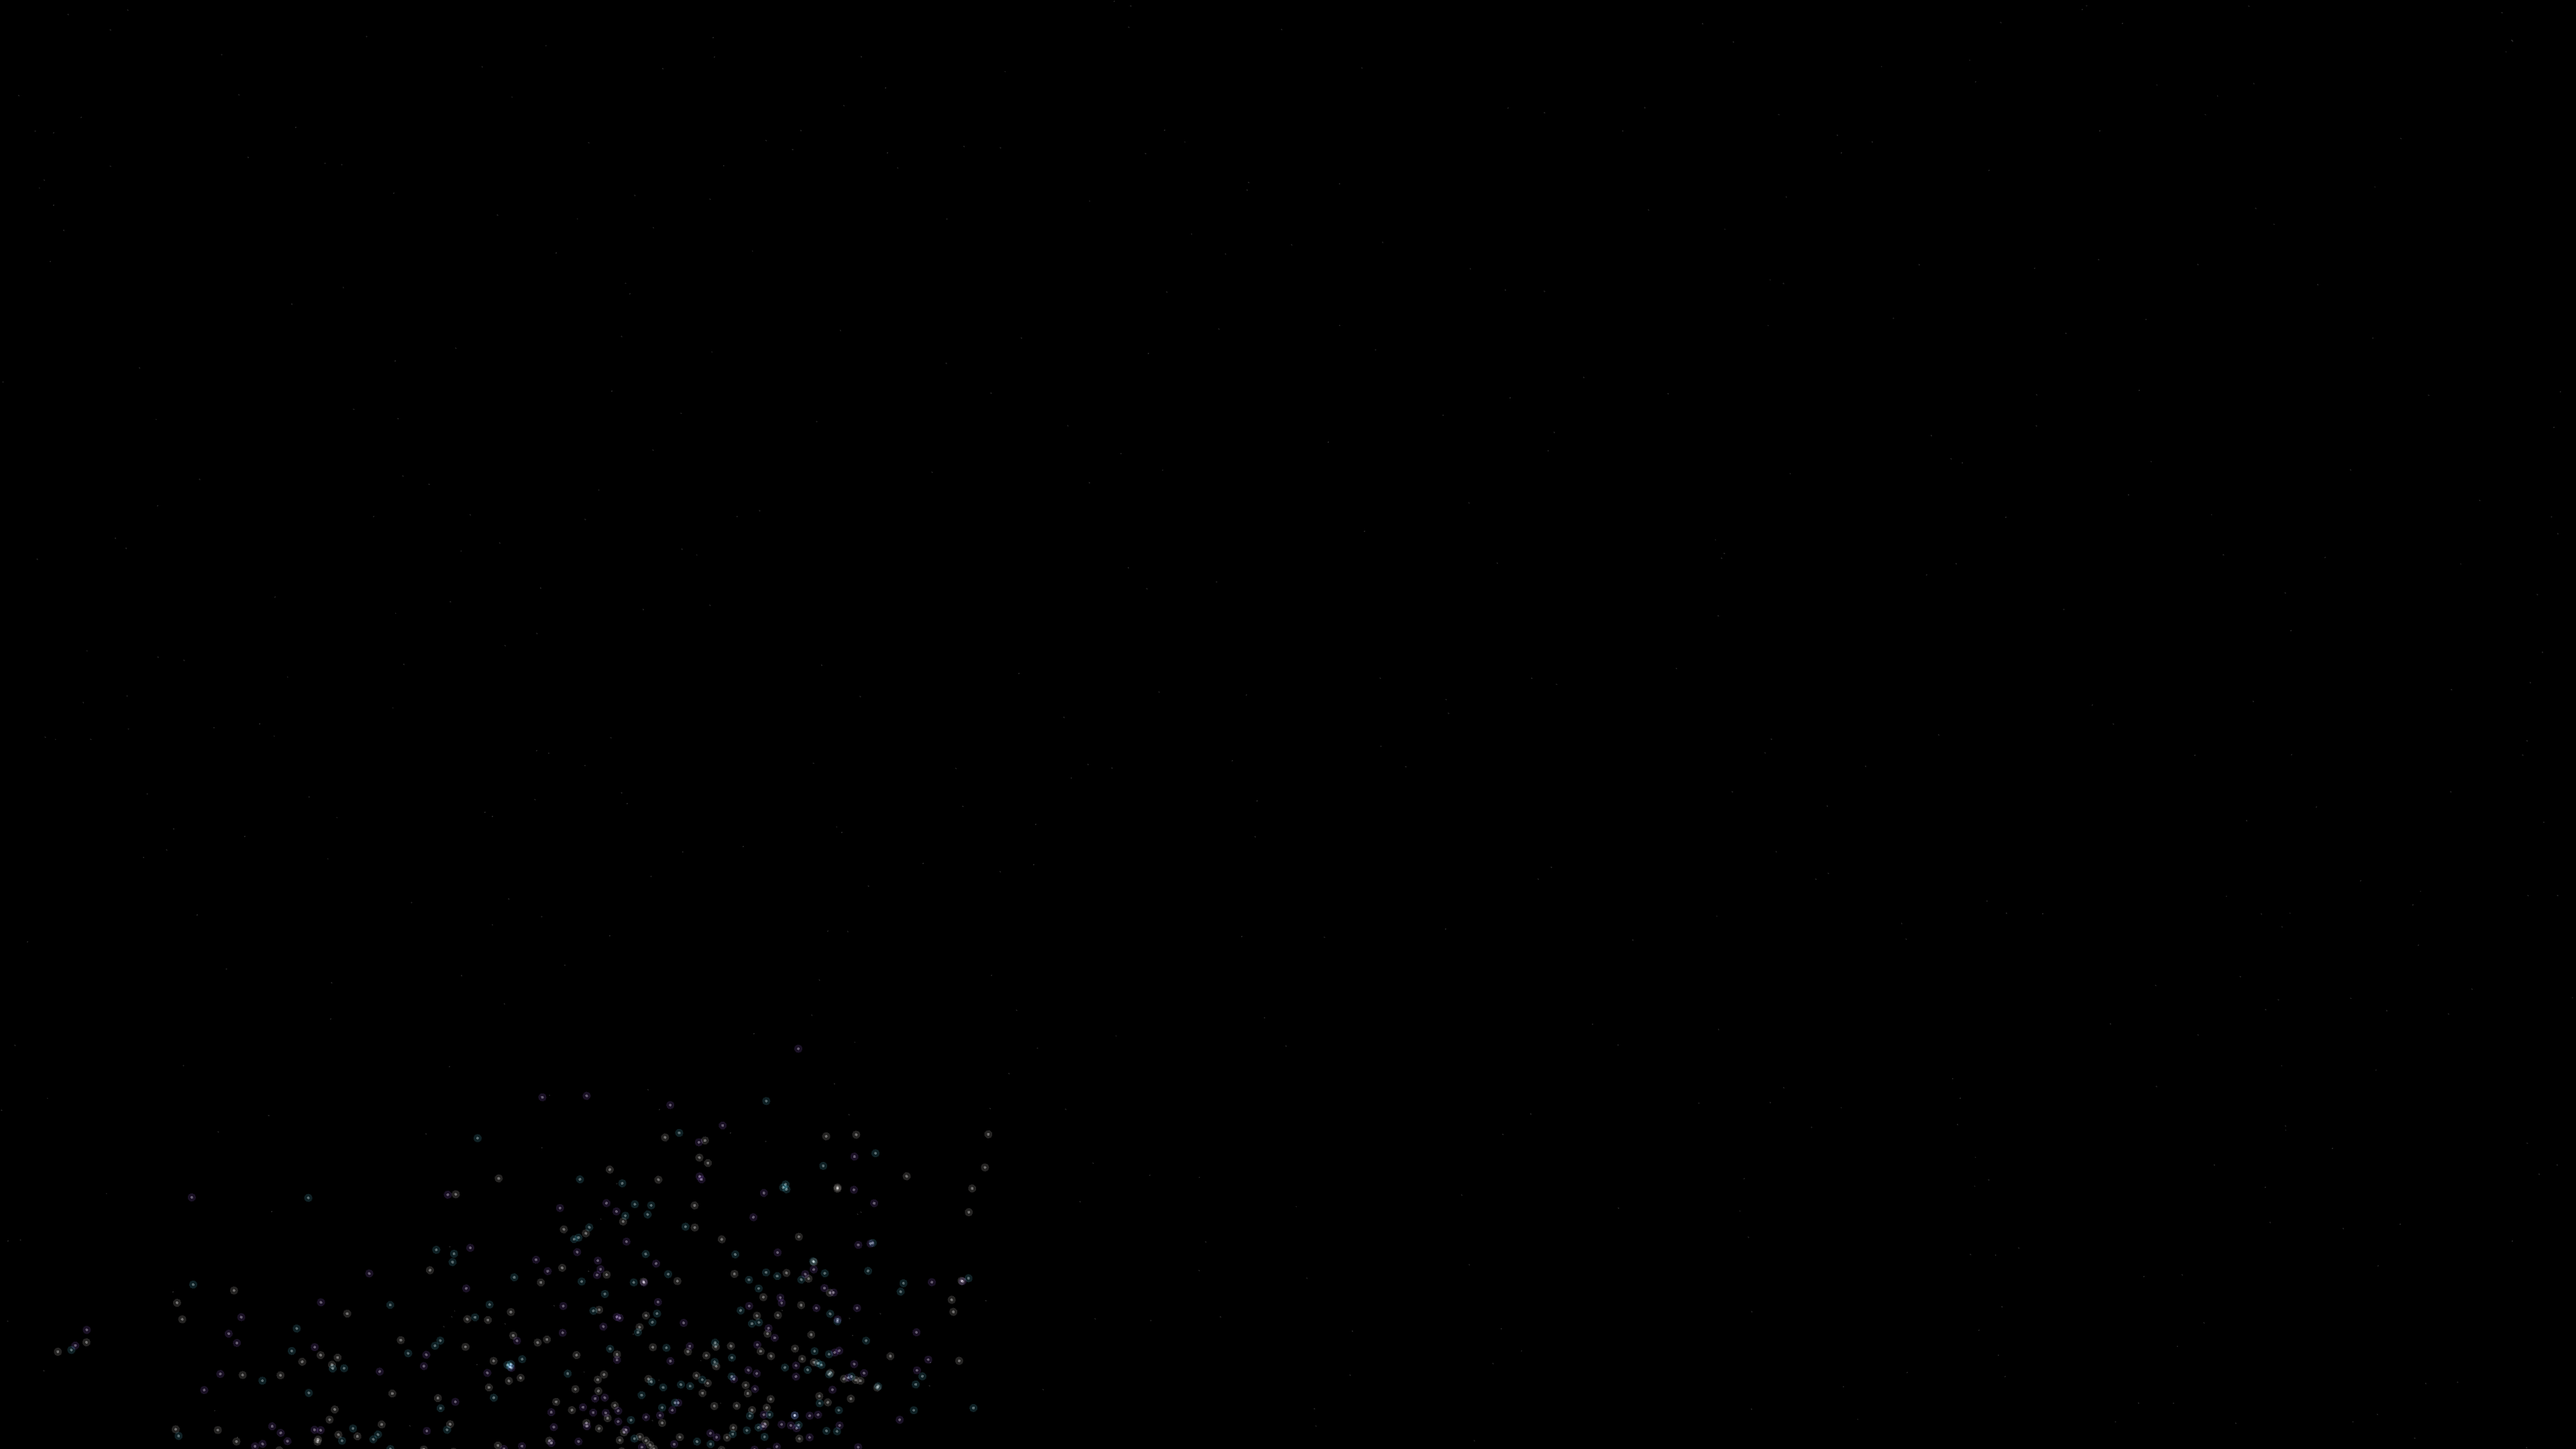
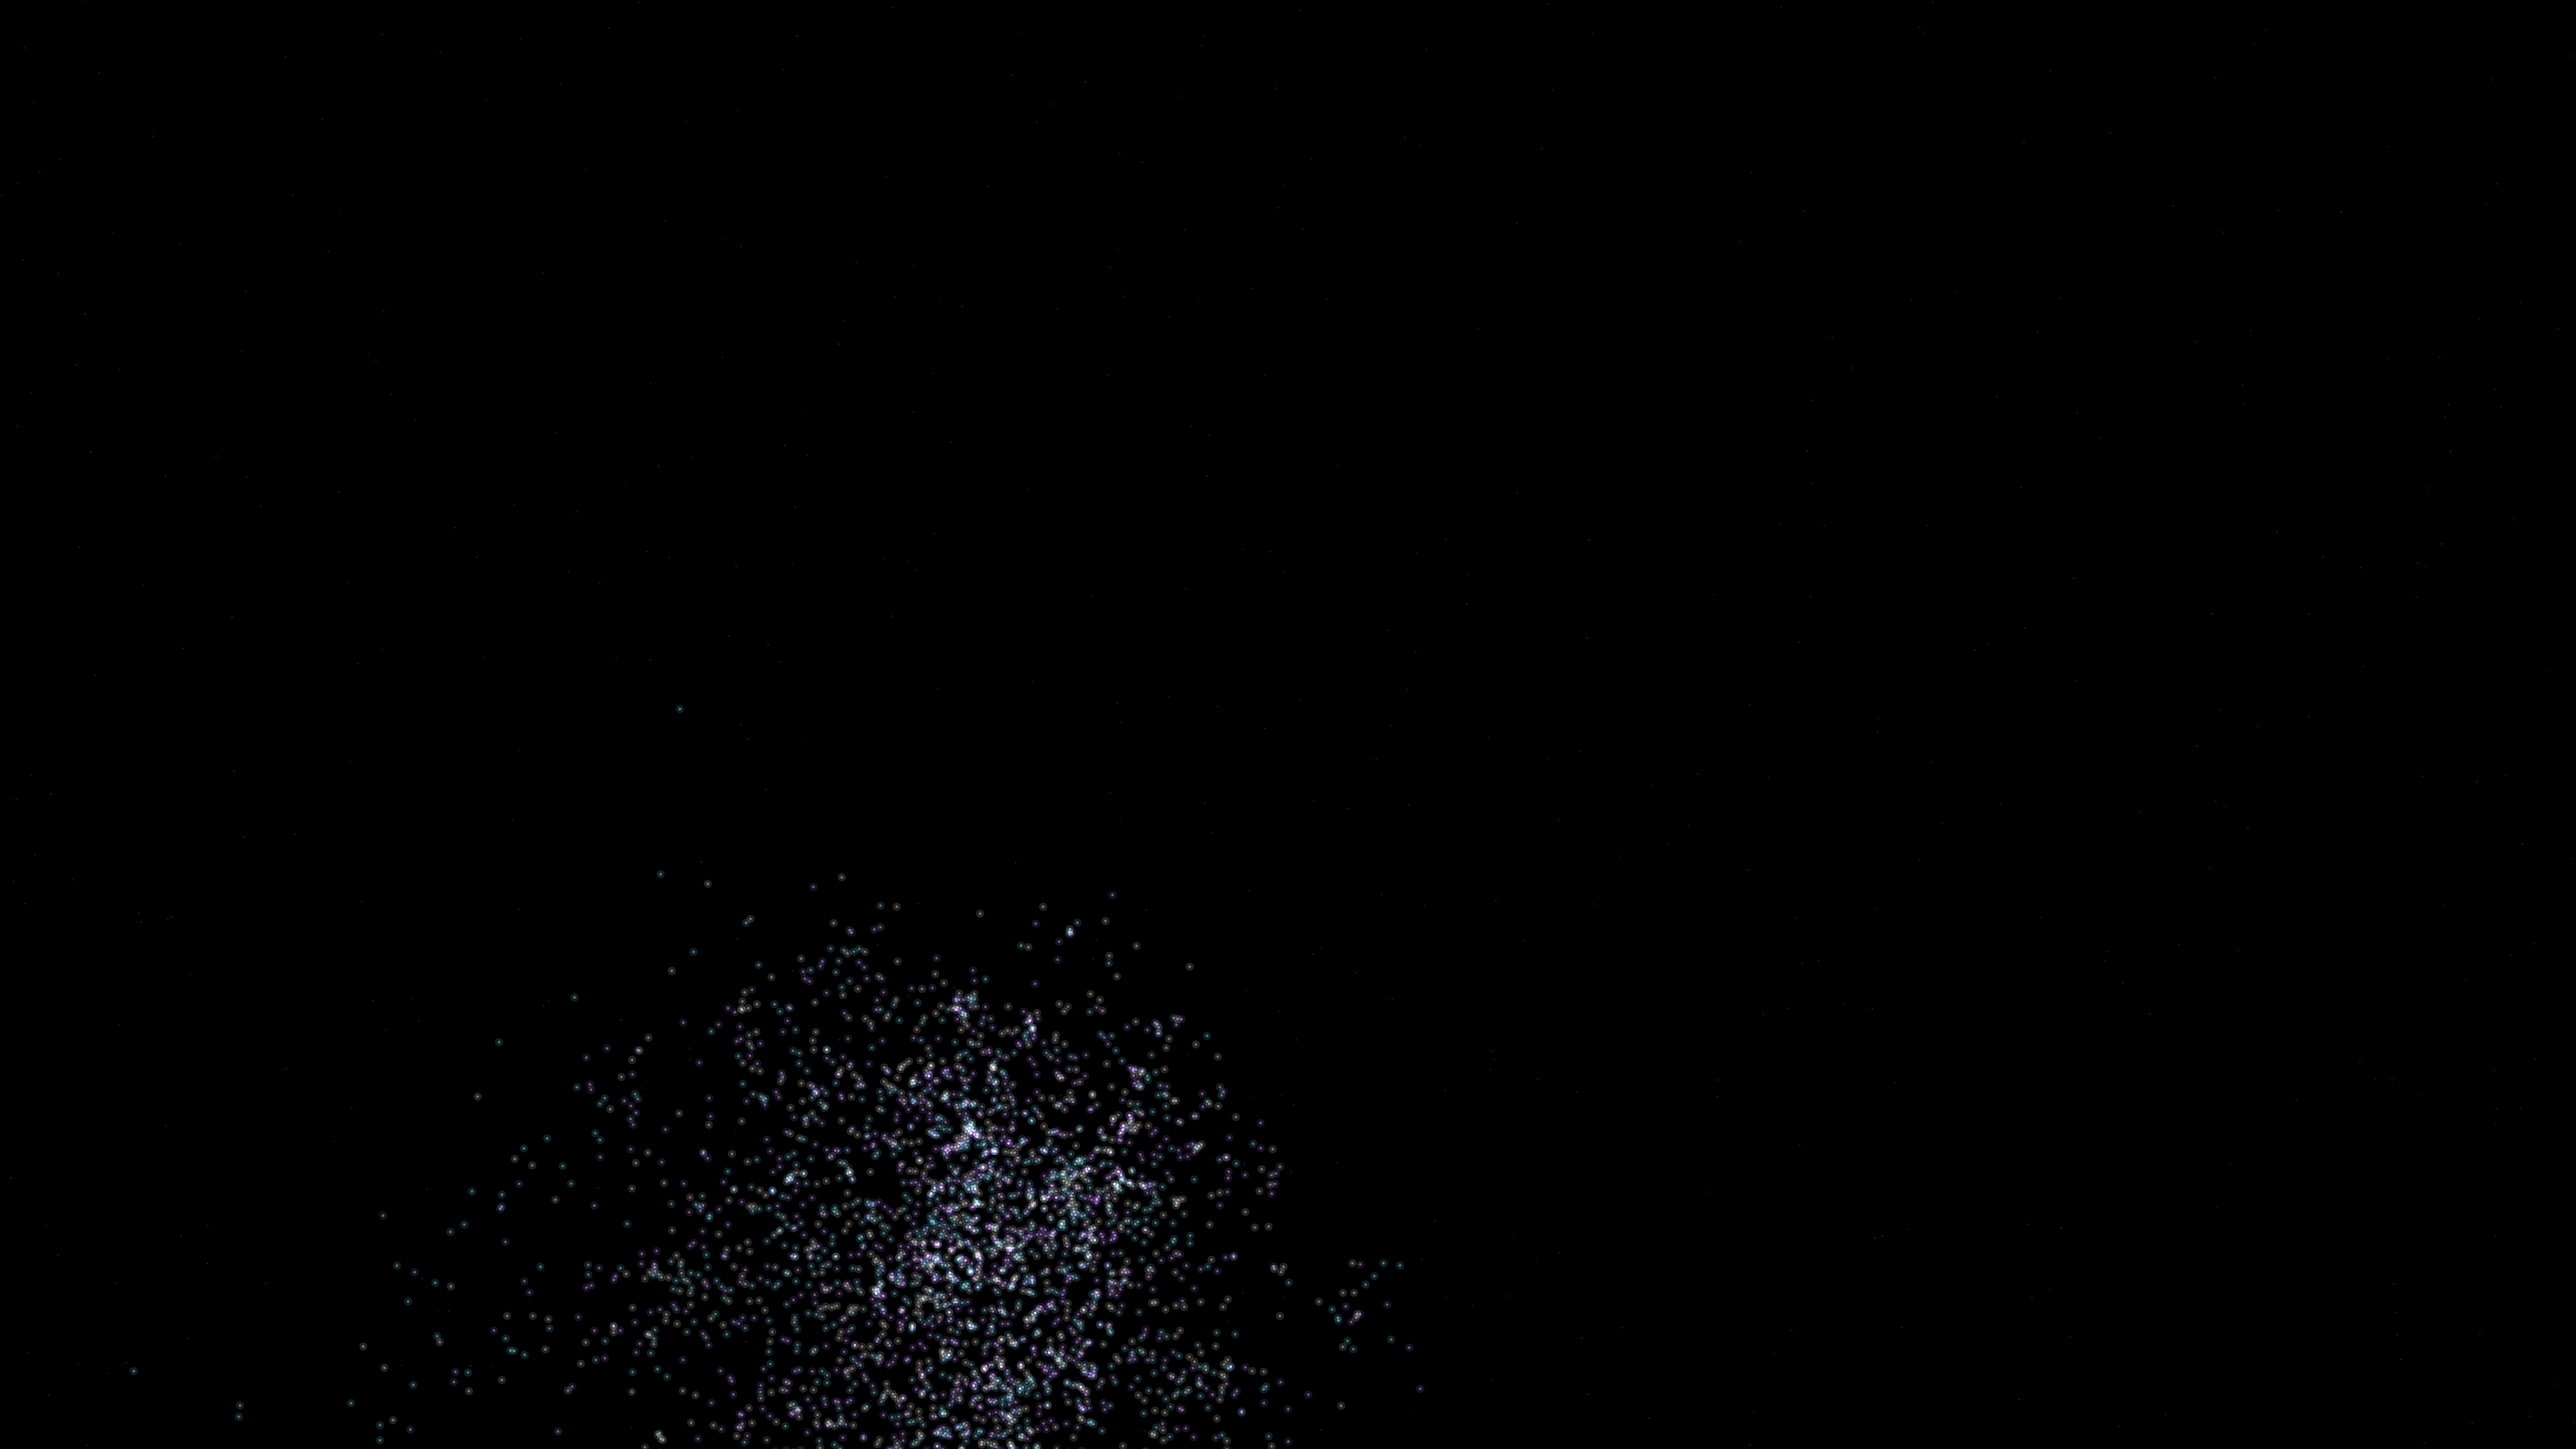
feat: upgrade cosmic_ray_cascade_resonance to 4K resolution and render output

diff --git a/sketch/cosmic_ray_cascade_resonance/main.py b/sketch/cosmic_ray_cascade_resonance/main.py
@@ -18,7 +18,8 @@ DURATION_SEC = 10
 FPS = 60
 TOTAL_FRAMES = DURATION_SEC * FPS
 PREVIEW_FILENAME = f"{WORK_NAME}_p1.png"
-PREVIEW_SIZE, OUTPUT_SIZE, SIZE = get_sizes()
+PREVIEW_SIZE, OUTPUT_SIZE, _ = get_sizes()
+SIZE = OUTPUT_SIZE  # Force 4K resolution (3840x2160)
 
 # Simulation Parameters
 PARTICLE_COUNT = 50000
@@ -117,33 +118,36 @@ class CascadeSystem:
             p_chunk = pts[m]
             alpha = np.mean(life_active[m]) * 255
             
+            # Subtle glow (adjusted stroke weights for 4K)
             py5.stroke(c[0], c[1], c[2], alpha * 0.5)
-            py5.stroke_weight(6)
+            py5.stroke_weight(12)
             py5.points(p_chunk)
             
             py5.stroke(255, 255, 255, alpha)
-            py5.stroke_weight(2)
+            py5.stroke_weight(4.0)
             py5.points(p_chunk)
 
 sys_obj = None
 stars_pos = None
 
+import shutil
+
 def setup():
     global sys_obj, stars_pos
     py5.size(*SIZE, py5.P2D)
+    py5.pixel_density(1)  # Capping at 1x density prevents Retina-doubling lag on 4K renders
     py5.background(0)
     py5.blend_mode(py5.ADD)
     sys_obj = CascadeSystem(py5.width, py5.height)
     stars_pos = np.random.uniform(0, [py5.width, py5.height], (500, 2)).astype(np.float32)
     if FRAMES_DIR.exists():
-        import shutil
         shutil.rmtree(FRAMES_DIR)
     FRAMES_DIR.mkdir(exist_ok=True)
 
 def draw():
     py5.background(0)
     py5.stroke(120, 80)
-    py5.stroke_weight(1)
+    py5.stroke_weight(2)  # Balanced for 4K
     py5.points(stars_pos)
 
     ry = py5.frame_count * 0.005
@@ -153,13 +157,29 @@ def draw():
     sys_obj.draw(ry, rz)
 
     py5.save_frame(str(FRAMES_DIR / "frame-####.png"))
+    
+    # Progress logs to prevent command timeouts
+    if py5.frame_count % 60 == 0:
+        print(f"[Render Progress] Frame {py5.frame_count}/{TOTAL_FRAMES} ({py5.frame_count/TOTAL_FRAMES*100:.1f}%)")
+
     if py5.frame_count >= TOTAL_FRAMES:
         py5.exit_sketch()
+        
+        print(f"[Render FFmpeg] Compiling {TOTAL_FRAMES} frames into 4K video...")
         subprocess.run(["ffmpeg", "-y", "-r", str(FPS), "-i", str(FRAMES_DIR / "frame-%04d.png"),
-                        "-vcodec", "libx264", "-pix_fmt", "yuv420p", "-crf", "26",
+                        "-vcodec", "libx264", "-pix_fmt", "yuv420p", "-crf", "22",
                         str(SKETCH_DIR / f"{WORK_NAME}.mp4")], check=True)
+        
+        # Mirror output
+        subprocess.run(["cp", str(SKETCH_DIR / f"{WORK_NAME}.mp4"), str(SKETCH_DIR / "output.mp4")], check=True)
+        
         mid = str(FRAMES_DIR / f"frame-{TOTAL_FRAMES // 2:04d}.png")
         subprocess.run(["cp", mid, str(SKETCH_DIR / PREVIEW_FILENAME)], check=True)
+        
+        # Clean up temporary frames
+        if FRAMES_DIR.exists():
+            shutil.rmtree(FRAMES_DIR)
+            print("[Render Cleanup] Temporary frames directory successfully removed.")
 
 if __name__ == "__main__":
     py5.run_sketch()
